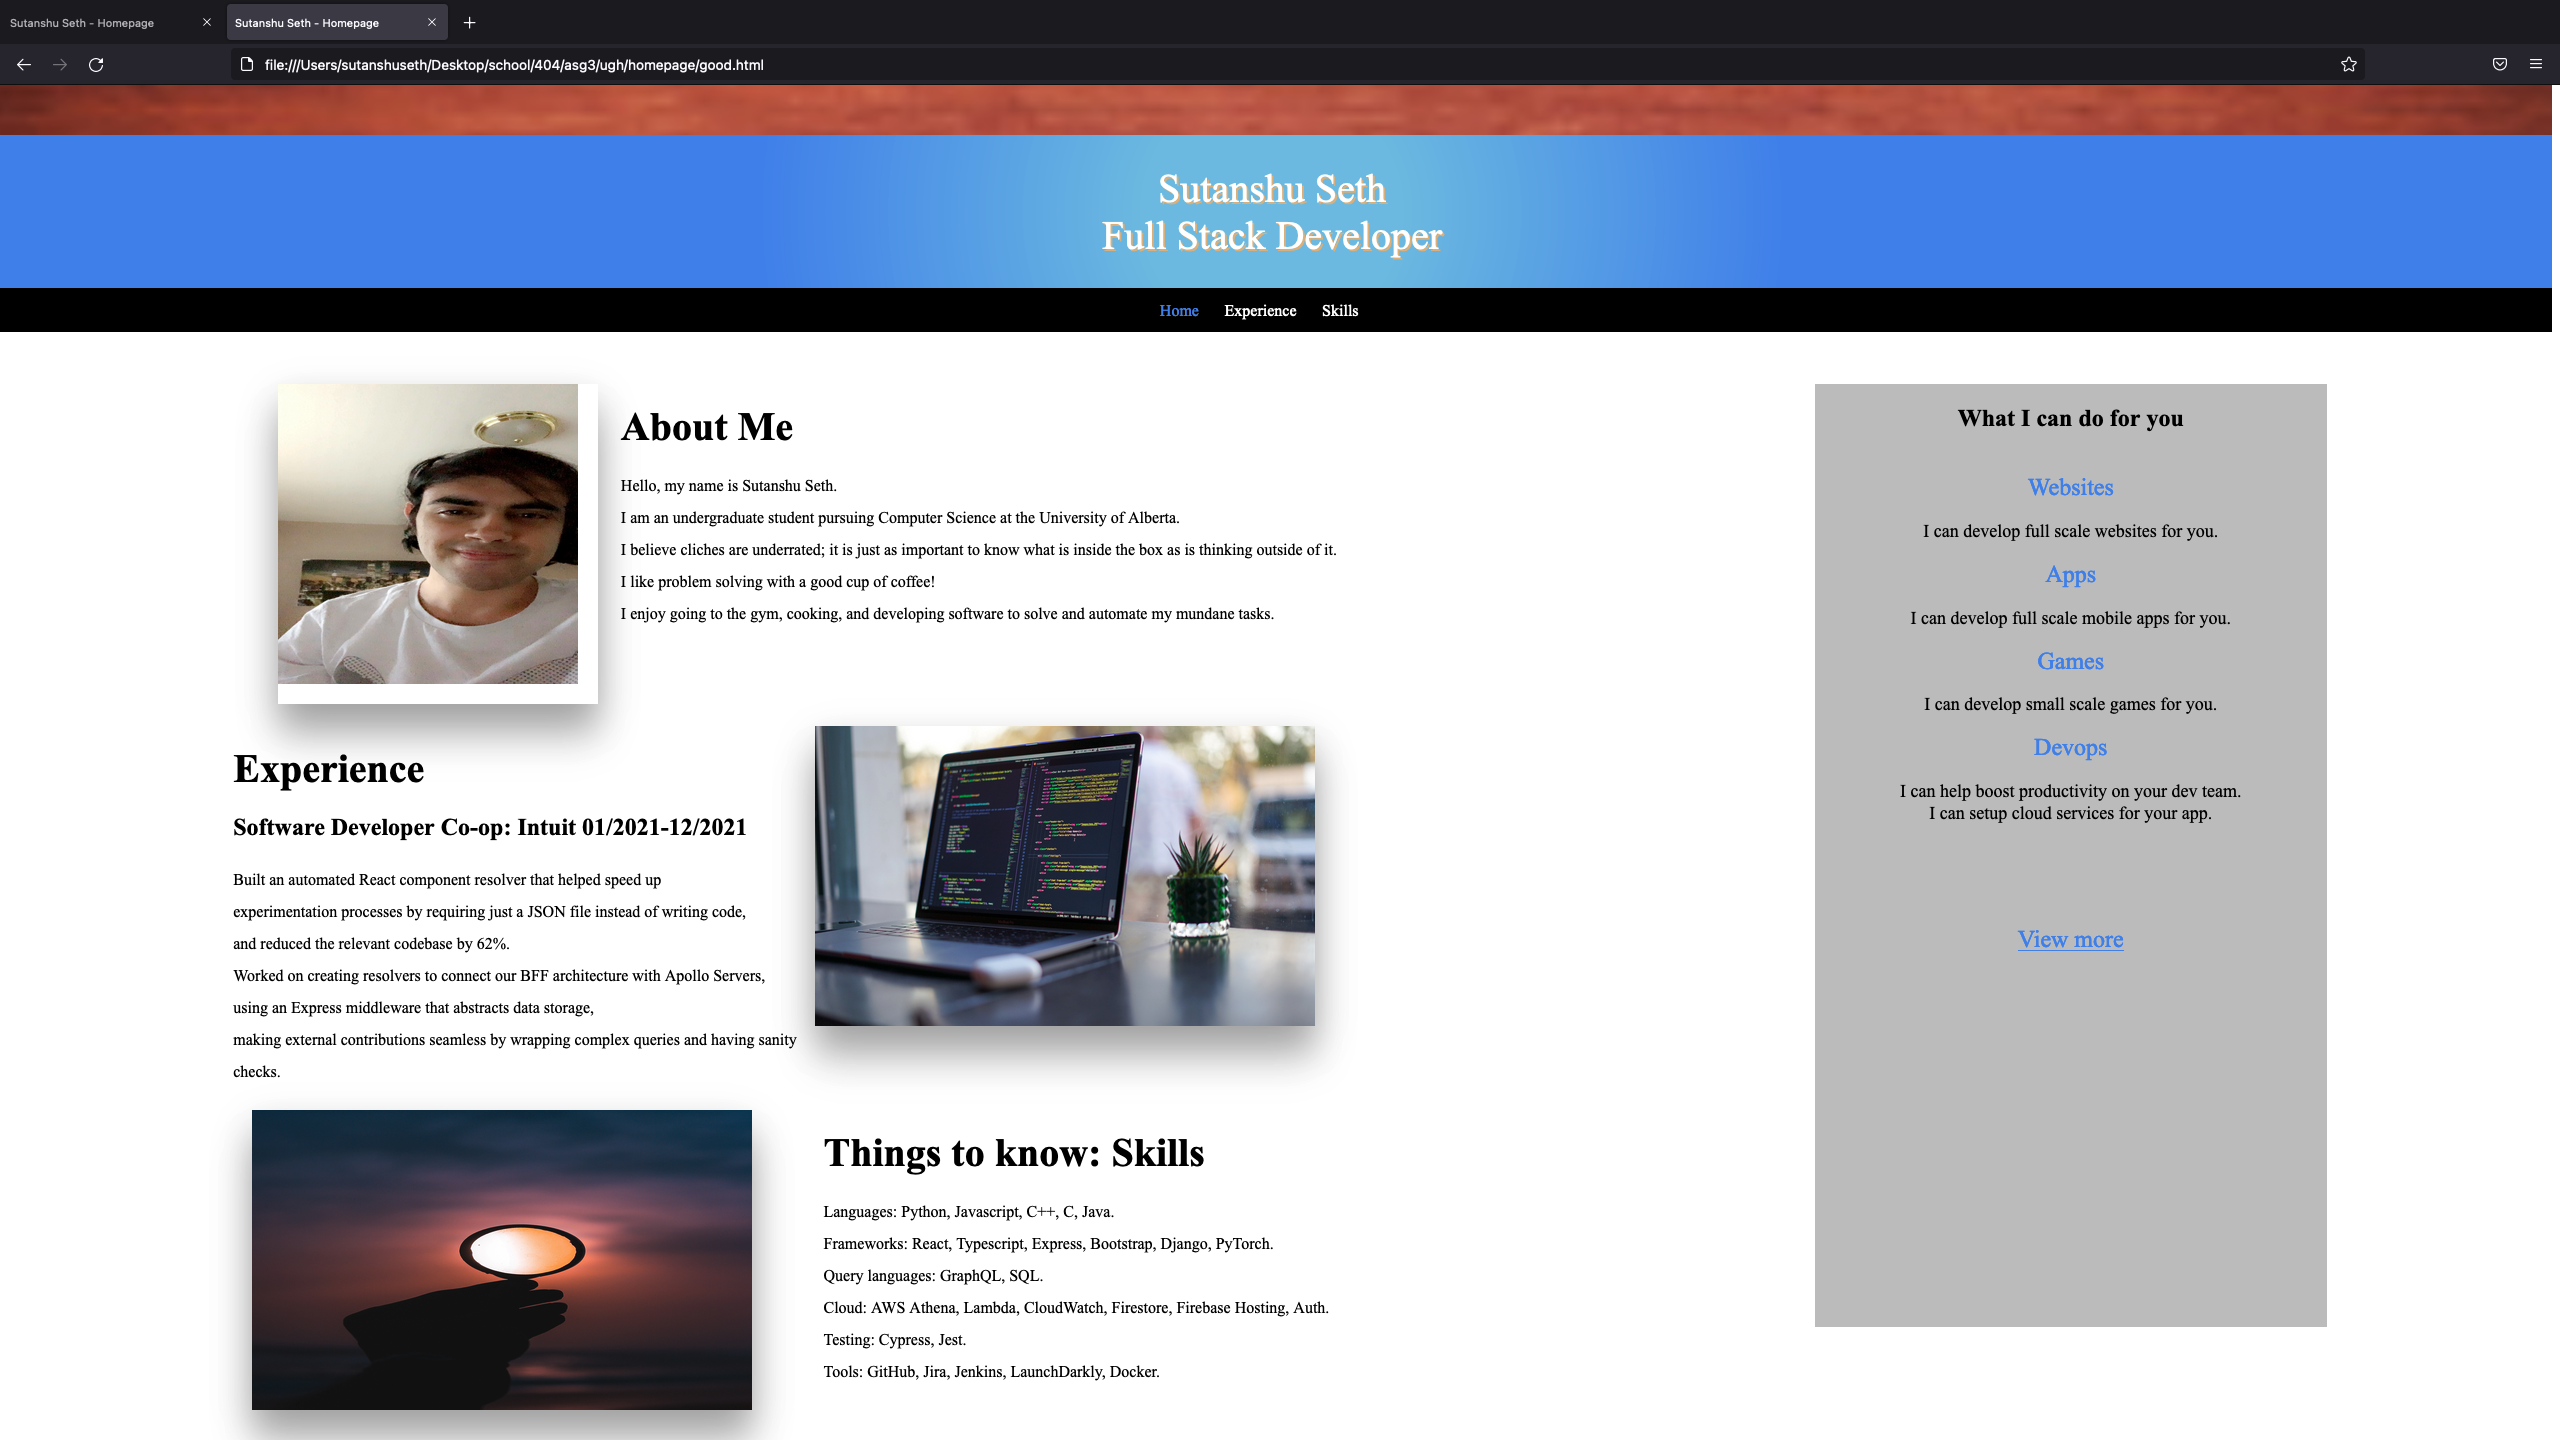
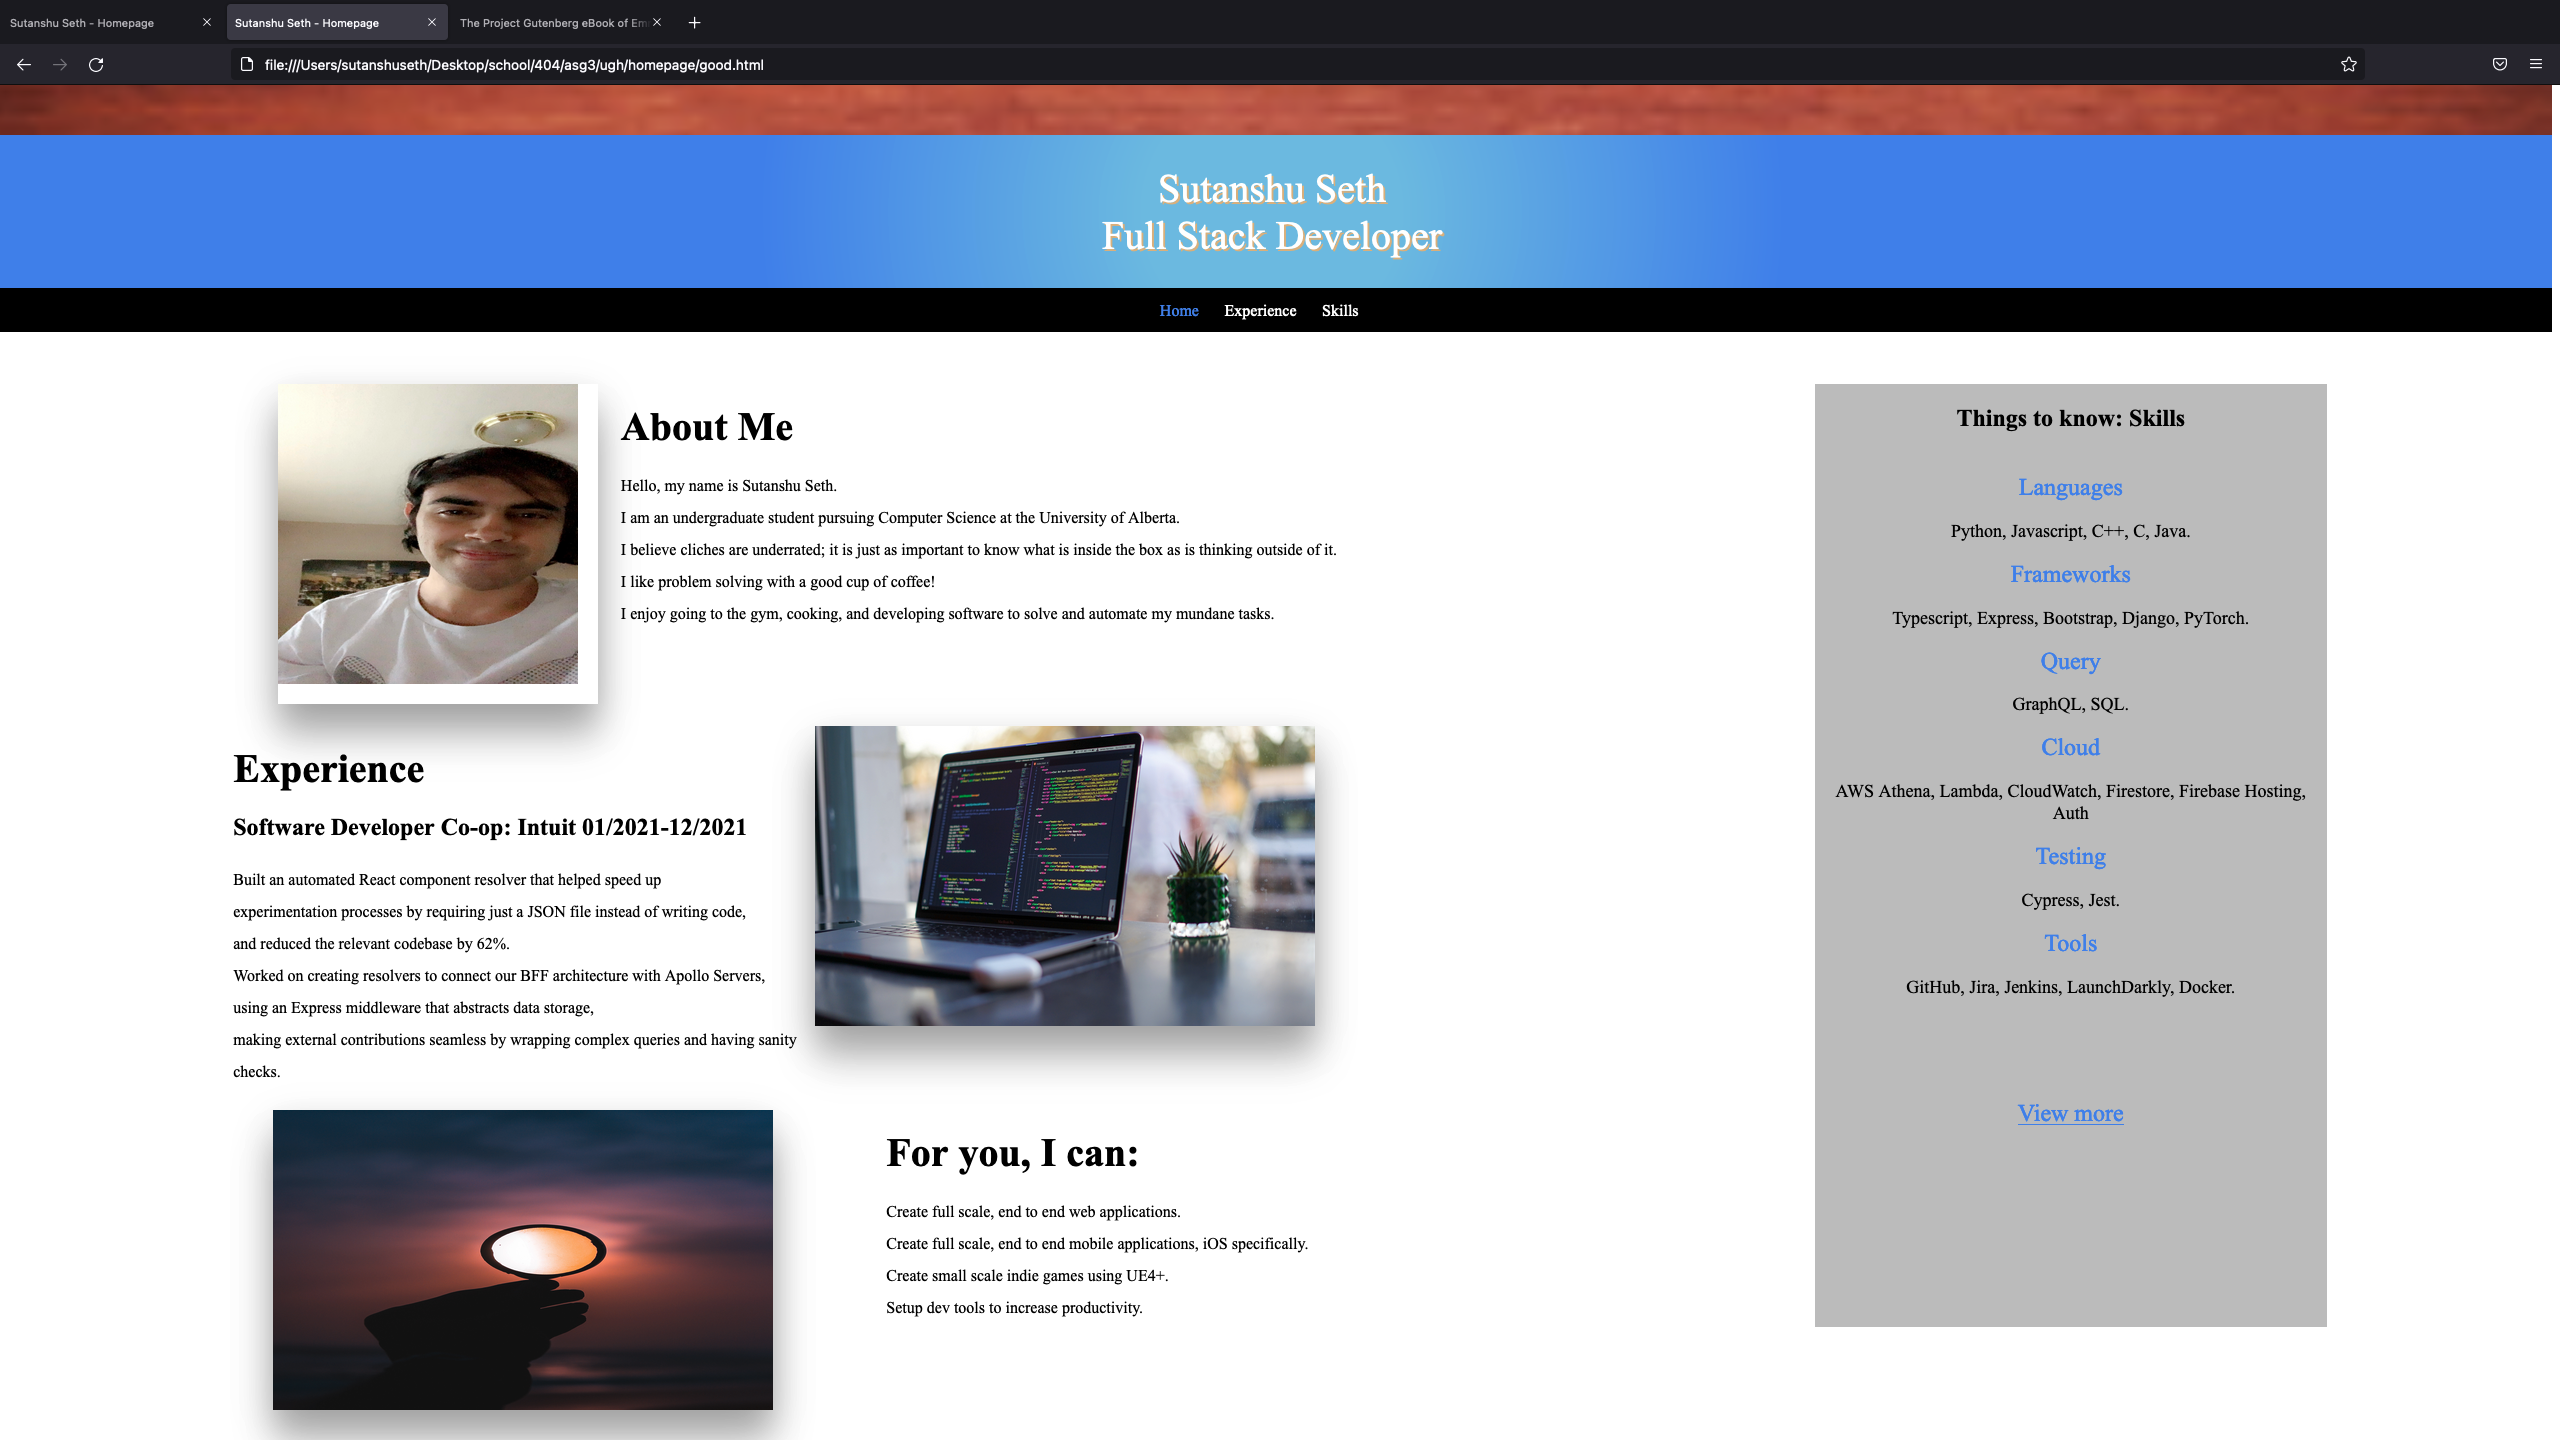
fix(asg3): shifting content

diff --git a/homepage/good.html b/homepage/good.html
@@ -57,25 +57,29 @@
                 <img class="otherImage" src="./assets/facts.jpg" alt="Profile picture">
                 <div class="aboutMe">
                     <h1>
-                        Things to know: Skills
+                        For you, I can:
                     </h1>
-                    <span>Languages: Python, Javascript, C++, C, Java.<br>Frameworks: React, Typescript, Express, Bootstrap, Django, PyTorch.<br>Query languages: GraphQL, SQL.<br>Cloud: AWS Athena, Lambda, CloudWatch, Firestore, Firebase Hosting, Auth.<br>Testing: Cypress, Jest.<br>Tools: GitHub, Jira, Jenkins, LaunchDarkly, Docker.</span>
+                    <span>Create full scale, end to end web applications.<br>Create full scale, end to end mobile applications, iOS specifically.<br>Create small scale indie games using UE4+.<br>Setup dev tools to increase productivity.</span>
                 </div>
             </div>
         </div>
         <div class="whatICanDo">
             <h2>
-                What I can do for you
+                Things to know: Skills
             </h2>
             <ul>
-                <li>Websites</li>
-                <p>I can develop full scale websites for you.</p>
-                <li>Apps</li>
-                <p>I can develop full scale mobile apps for you.</p>
-                <li>Games</li>
-                <p>I can develop small scale games for you.</p>
-                <li>Devops</li>
-                <p>I can help boost productivity on your dev team. <br> I can setup cloud services for your app.</p>
+                <li>Languages</li>
+                <p>Python, Javascript, C++, C, Java.</p>
+                <li>Frameworks</li>
+                <p>Typescript, Express, Bootstrap, Django, PyTorch.</p>
+                <li>Query</li>
+                <p>GraphQL, SQL.</p>
+                <li>Cloud</li>
+                <p>AWS Athena, Lambda, CloudWatch, Firestore, Firebase Hosting, Auth</p>
+                <li>Testing</li>
+                <p>Cypress, Jest.</p>
+                <li>Tools</li>
+                <p>GitHub, Jira, Jenkins, LaunchDarkly, Docker.</p>
                 <li><a href="https://github.com/Sutanshu"> View more</a></li>
             </ul>
 

diff --git a/homepage/ugly.html b/homepage/ugly.html
@@ -57,25 +57,29 @@
                 <img class="otherImage" src="./assets/facts.jpg" alt="Profile picture">
                 <div class="aboutMe">
                     <h1>
-                        Things to know: Skills
+                        For you, I can:
                     </h1>
-                    <span>Languages: Python, Javascript, C++, C, Java.<br>Frameworks: React, Typescript, Express, Bootstrap, Django, PyTorch.<br>Query languages: GraphQL, SQL.<br>Cloud: AWS Athena, Lambda, CloudWatch, Firestore, Firebase Hosting, Auth.<br>Testing: Cypress, Jest.<br>Tools: GitHub, Jira, Jenkins, LaunchDarkly, Docker.</span>
+                    <span>Create full scale, end to end web applications.<br>Create full scale, end to end mobile applications, iOS specifically.<br>Create small scale indie games using UE4+.<br>Setup dev tools to increase productivity.</span>
                 </div>
             </div>
         </div>
         <div class="whatICanDo">
             <h2>
-                What I can do for you
+                Things to know: Skills
             </h2>
             <ul>
-                <li>Websites</li>
-                <p>I can develop full scale websites for you.</p>
-                <li>Apps</li>
-                <p>I can develop full scale mobile apps for you.</p>
-                <li>Games</li>
-                <p>I can develop small scale games for you.</p>
-                <li>Devops</li>
-                <p>I can help boost productivity on your dev team. <br> I can setup cloud services for your app.</p>
+                <li>Languages</li>
+                <p>Python, Javascript, C++, C, Java.</p>
+                <li>Frameworks</li>
+                <p>Typescript, Express, Bootstrap, Django, PyTorch.</p>
+                <li>Query</li>
+                <p>GraphQL, SQL.</p>
+                <li>Cloud</li>
+                <p>AWS Athena, Lambda, CloudWatch, Firestore, Firebase Hosting, Auth</p>
+                <li>Testing</li>
+                <p>Cypress, Jest.</p>
+                <li>Tools</li>
+                <p>GitHub, Jira, Jenkins, LaunchDarkly, Docker.</p>
                 <li><a href="https://github.com/Sutanshu"> View more</a></li>
             </ul>
 
